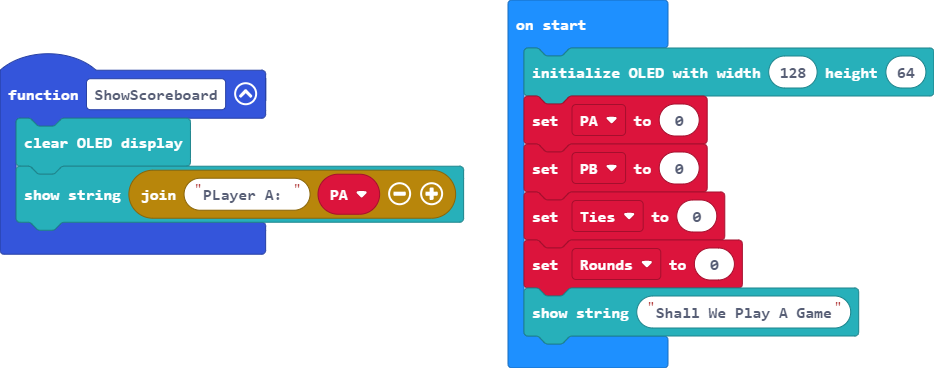
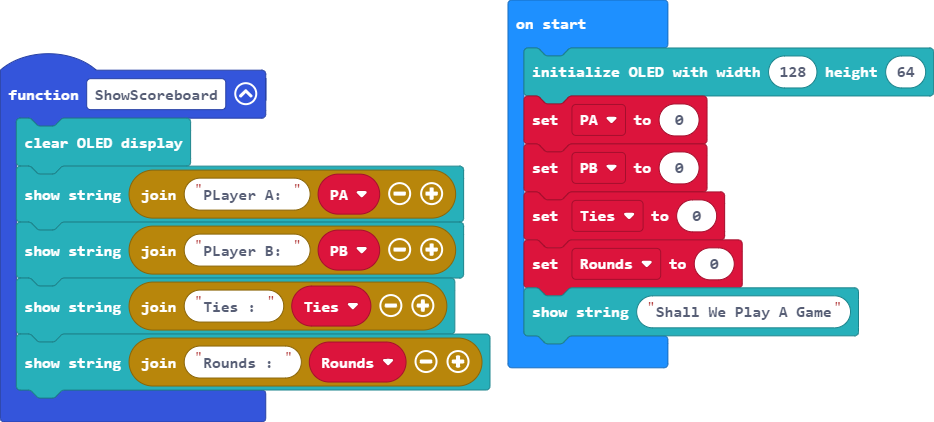
Update main.blocks, main.ts

diff --git a/main.ts b/main.ts
@@ -1,11 +1,17 @@
 function ShowScoreboard () {
     OLED.clear()
     OLED.writeStringNewLine("PLayer A: " + PA)
+    OLED.writeStringNewLine("PLayer B: " + PB)
+    OLED.writeStringNewLine("Ties : " + Ties)
+    OLED.writeStringNewLine("Rounds : " + Rounds)
 }
+let Rounds = 0
+let Ties = 0
+let PB = 0
 let PA = 0
 OLED.init(128, 64)
 PA = 0
-let PB = 0
-let Ties = 0
-let Rounds = 0
+PB = 0
+Ties = 0
+Rounds = 0
 OLED.writeStringNewLine("Shall We Play A Game")
